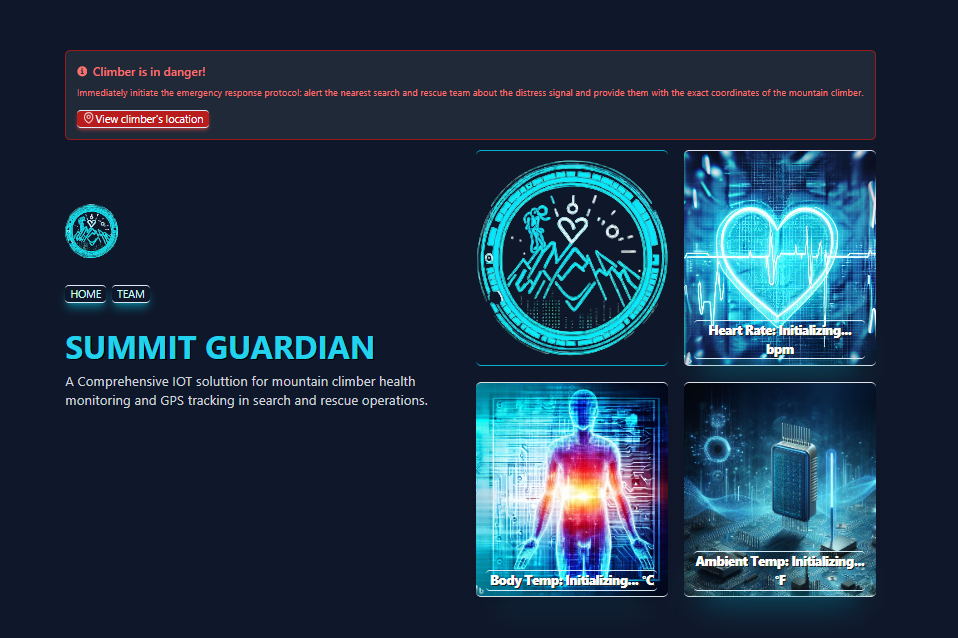
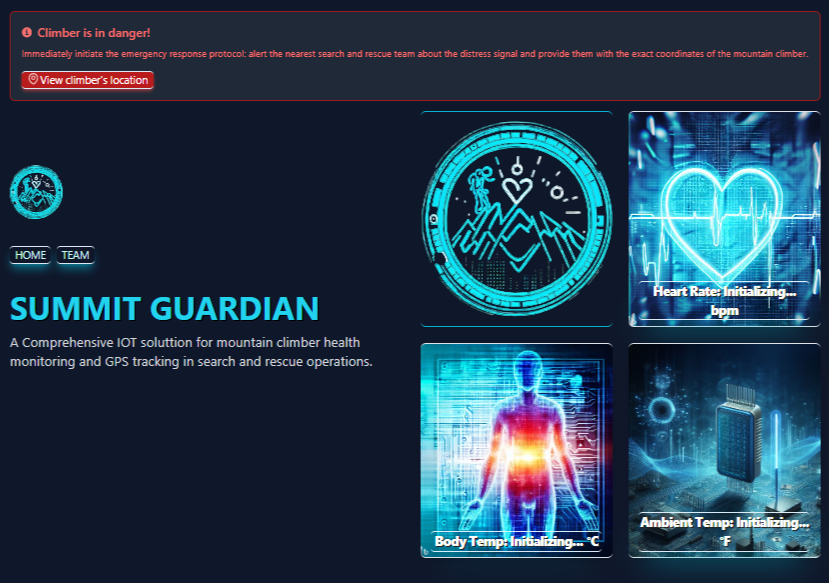
Updated summit guardian image

diff --git a/resources/js/Pages/Welcome.vue b/resources/js/Pages/Welcome.vue
@@ -389,7 +389,7 @@ onMounted(() => {
                     <div class="p-4 md:w-1/3 slide-in-bottom">
                         <div
                             class="h-full border-x-2 border-teal-500 shadow-lg shadow-teal-500 border-opacity-60 rounded-lg overflow-hidden">
-                            <img class="lg:h-48 md:h-36 w-full object-cover object-center hidden sm:flex"
+                            <img class="lg:h-48 md:h-36 w-full object-cover object-left hidden sm:flex"
                                 src="/images/prims.png" alt="prims-photo">
                             <div class="p-2">
                                 <div class="flex justify-between items-center">
